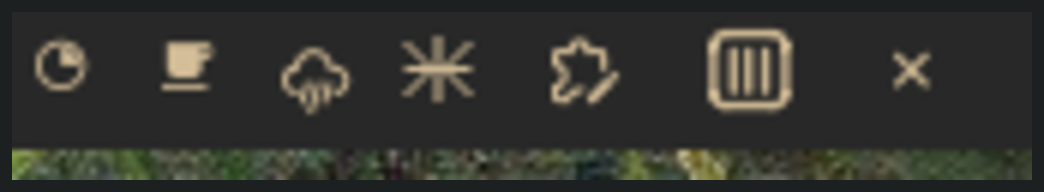
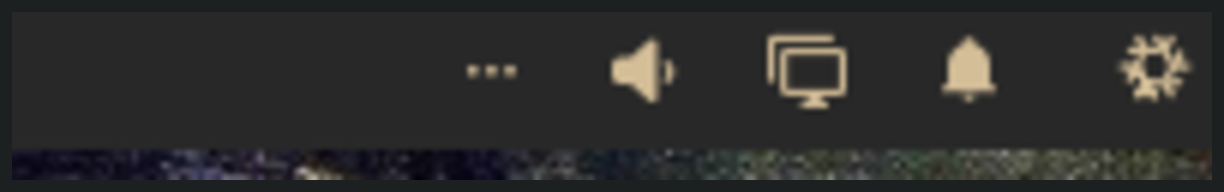
fix(bar): the widget was invisible, for two independent reasons (#9)
Reported as "I still do not see the panel icon, no snow flake", and both
causes were real. I had claimed earlier that the widget rendered, on the
strength of a zoomed screenshot of a cluster of other plugins' icons. It
did not; I misread someone else's glyph.

BarWidget is a bare Item and derives no size from its children, so a
widget that does not publish an implicit size is 0x0 and draws nothing.
Every first-party widget lifts its size off its button -- KeyboardLayout,
Microphone and the rest all carry the same two lines -- and this one had
neither.

The icon was U+2744 SNOWFLAKE, which is the obvious character and is in
no Nerd Font on this machine: it renders as a tofu box. nixi-button
hand-draws its snowflake rather than using a glyph, which was the clue.
It is nf-linux-nixos (U+F313) now -- present in FiraCode Nerd Font,
verified with fc-list :charset, and the NixOS logo rather than a generic
snowflake.

Separately, `omarchy bar move` adds "hidden":"hover" to the layout entry,
so even a correct widget stays collapsed until the bar is hovered. Worth
knowing when one appears not to be there.

Claude-Session: https://claude.ai/code/session_015eFoUrqY97oVjcrs3uqp4X

diff --git a/Panel.qml b/Panel.qml
@@ -25,8 +25,12 @@ BarWidget {
   property int queued: 0
   property bool neverApplied: false
 
-  // nf-md-nix, the snowflake this desktop already uses for anything Nix.
-  readonly property string icon: "\u2744"
+  // nf-linux-nixos. NOT U+2744 SNOWFLAKE, which looks like the obvious
+  // choice and is in no Nerd Font on this system -- it renders as a tofu
+  // box in the bar, which is how this widget spent its first outing
+  // looking as though it had not loaded at all. nixi-button hand-draws its
+  // snowflake for the same reason.
+  readonly property string icon: "\uf313"
 
   // The adapter, next to this file, so nothing needs to be on $PATH.
   readonly property string script:
@@ -69,7 +73,15 @@ BarWidget {
     onTriggered: root.refresh()
   }
 
+  // BarWidget is a bare Item and sizes itself from nothing, so a widget that
+  // does not publish an implicit size is 0x0 and draws nothing at all --
+  // which is exactly what this did. Every first-party widget lifts its size
+  // off its button; this one now does too.
+  implicitWidth: button.implicitWidth
+  implicitHeight: button.implicitHeight
+
   WidgetButton {
+    id: button
     anchors.fill: parent
     bar: root.bar
     text: root.queued > 0 ? root.icon + " " + root.queued : root.icon
